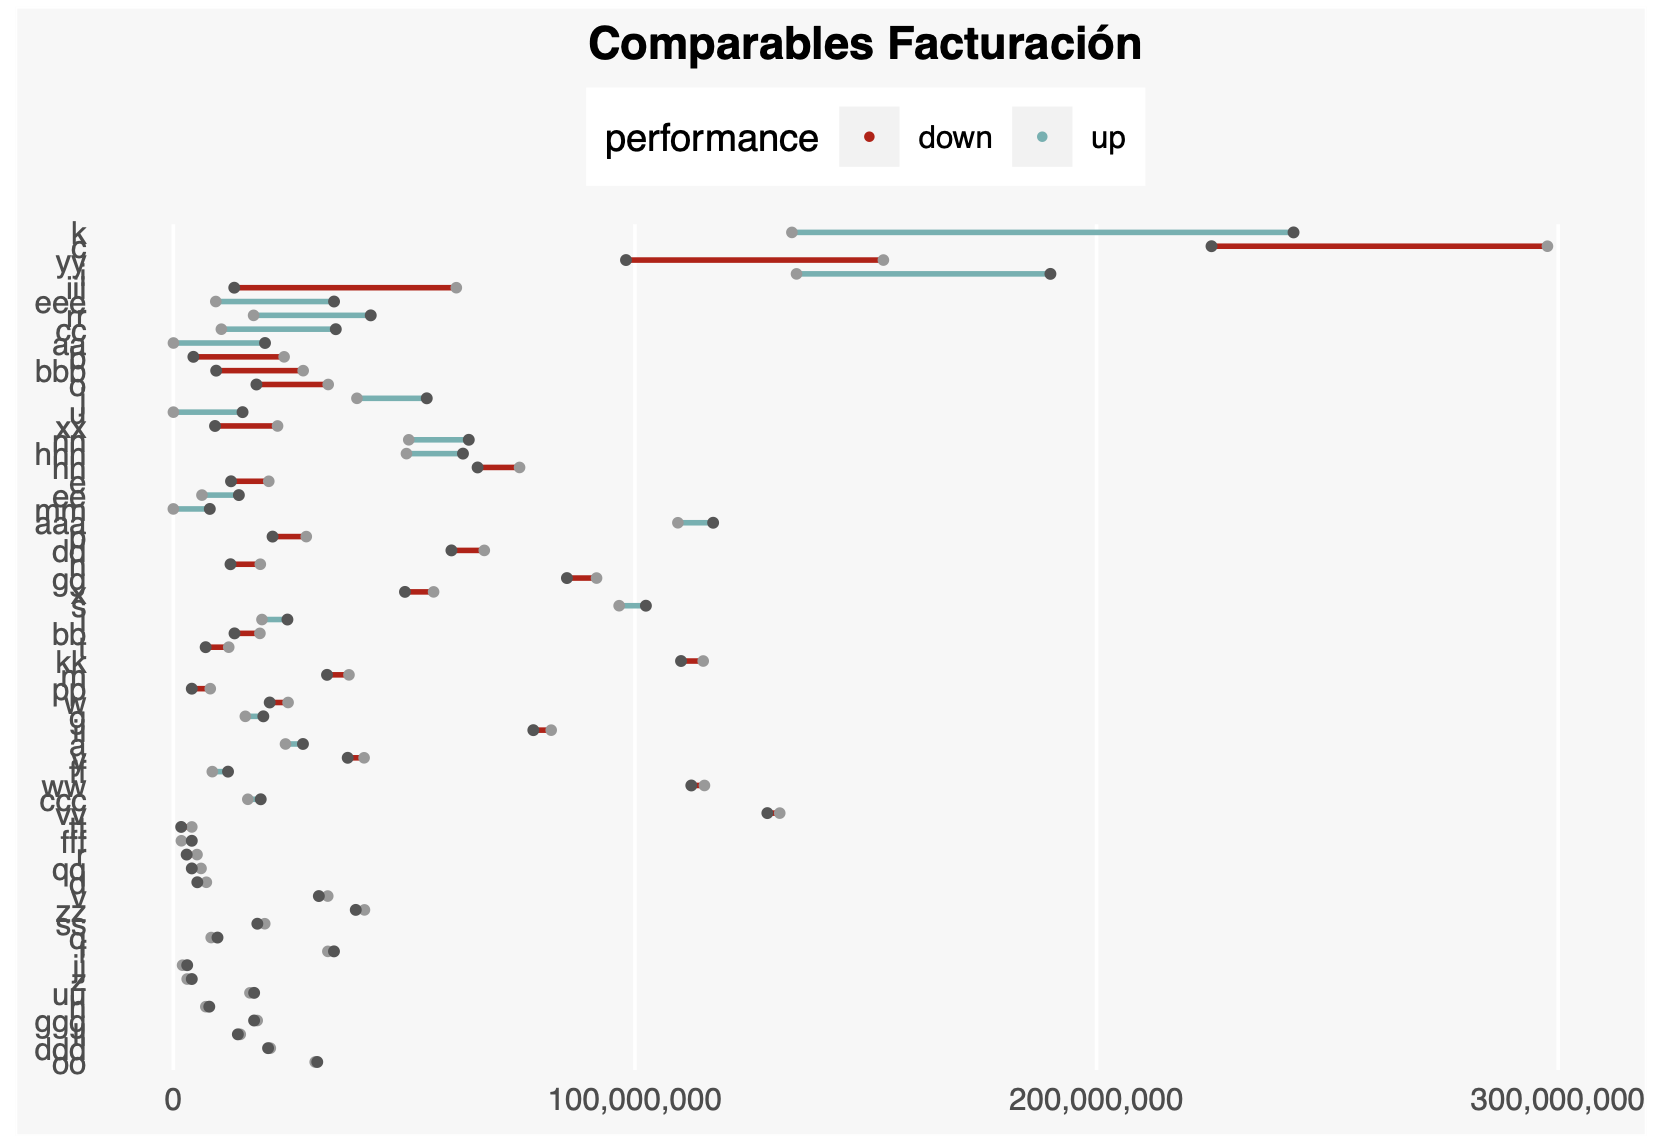
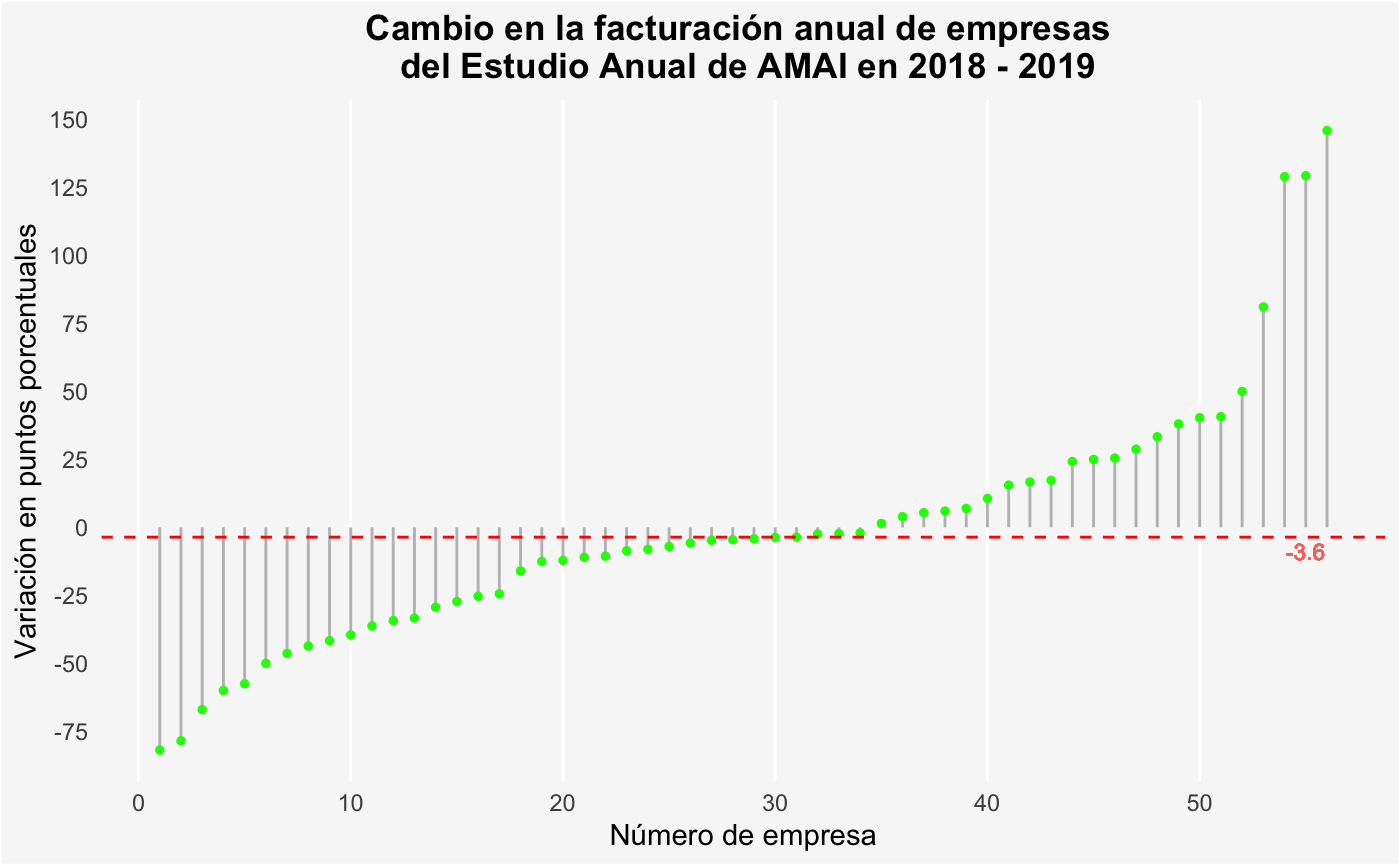
Comparativo facturacion y dedicatoria mamá

diff --git a/Chapters/3.Mod.tex b/Chapters/3.Mod.tex
@@ -79,13 +79,13 @@ Posteriormente, se hizo una análisis de la información histórica reunida por 
 
 En consideración de ello, para el caso de las empresas donde existe información de su facturación en 2018, el total correspondiente al 2019 se estimó aplicando al valor 2018 una tasa ponderada de cambio en la facturación total de ambos periodos, cuyo cálculo se realizó con base en la mediana, en términos porcentuales, de la variación observada sobre la facturación de las empresas para las que si se encontraron datos en 2018 y 2019 (es decir, empresas coincidentes 2018-2019). Esta tasa fue cuantificada en $-3.6\%$.
 
-Se consideró pertinente emplear dicha tasa dada la dinámica observada en el total de facturación de las empresas coincidentes de 2018 y 2019, la cual se ejemplifica en la figura 3.1, donde se han modificado los nombres de las empresas para respetar los acuerdos de confidencialidad existentes entre la AMAI y el CCD del ITAM.
+Se consideró pertinente emplear dicha tasa dada la dinámica observada en el total de facturación de las empresas coincidentes de 2018 y 2019, la cual se ejemplifica en la figura 3.2, donde se presenta un comparativo del porcentaje de cambio observado en la facturación de las empresas en dichos años\footnote{Para preservar la confidencialidad de los datos de facturación proporcionados por los participantes del estudio, este comparativo se ha construido calculando la diferencia, en términos porcentuales, de la facturación anual reportada en 2019 contra la correspondiente en 2018, ordenando los datos resultantes de menor a mayor y asignando conforme a dicho orden un número a cada empresa (para omitir su nombre explícito). En rojo, se añadió la variación de la facturación 2018 - 2019 toda la industria estimada para como la mediana de las variaciones de facturación anual de todas las empresas y que corresponde a -3.6\%. Cabe destacar que por cuestiones de escala, del gráfico más no de los cálculos involucrados se han omitido los datos estimados para dos empresas, con variaciones porcentuales de facturación anual superiores al 300\% en dicho periodos }.
 
 \begin{figure}[h]
 \begin{center}
-\includegraphics[scale=0.4]{Imagenes/empresas_coincidentes.png}
+\includegraphics[scale=0.25]{Imagenes/empresas_coincidentes.png}
 \end{center}
-\caption{Comparación de los totales de la facturación de empresas coincidentes 2018-2019 en ambos periodos}
+\caption{Cambio de la facturación anual 2018 vs 2019 de las empresas participantes en el Estudio Anual de AMAI}
 \end{figure}
 
 \newpage

diff --git a/main.tex b/main.tex
@@ -151,13 +151,7 @@
 \chapter*{}
 
 \begin{flushright}
-\textit{A mis padres,\\ quienes tras siete años \\ siguen luchando incansablemente.}
-\end{flushright}
-
-\vspace{0.5cm}
-
-\begin{flushright}
-\textit{A la pequeña Elvira, \\ a quien nunca he olvidado. \\ Descansa en paz.}
+\textit{En memoria de mi madre, \\ María del Carmen Martínez.}
 \end{flushright}
 
 
@@ -189,7 +183,7 @@ If bees are few.}
 
 \chapter*{Agradecimientos}
 
-\noindent  A mis padres, por el inmenso amor que me han entregado. Por que han sido mi fuerza y apoyo durante toda la vida, porque siempre han creído en mi y ya que este trabajo no habría sido posible sin ellos; por todos los esfuerzos que han enfrentado valientemente para salir adelante y porque todo lo que soy se los debo a ustedes.
+\noindent  A mamá, María del Carmen, por el inmenso amor que me entregó. Por que siempre fue mi fuerza y apoyo durante toda la vida, porque siempre creyó en mi y en razón de que este trabajo no habría sido posible sin su presencia; por todos los obstáculos que enfrentó valientemente para salir adelante y porque todo lo que soy se lo debo ella.
 
 \vspace{0.5cm}
 
